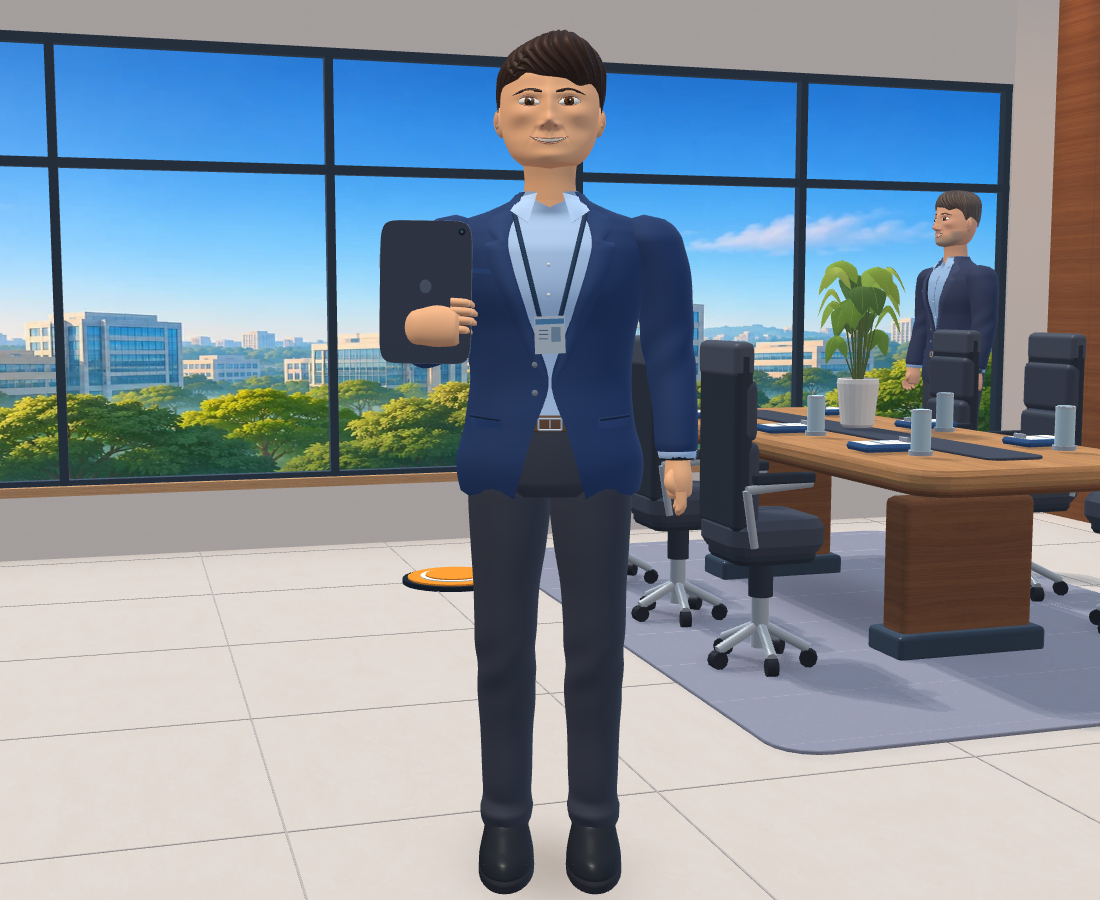
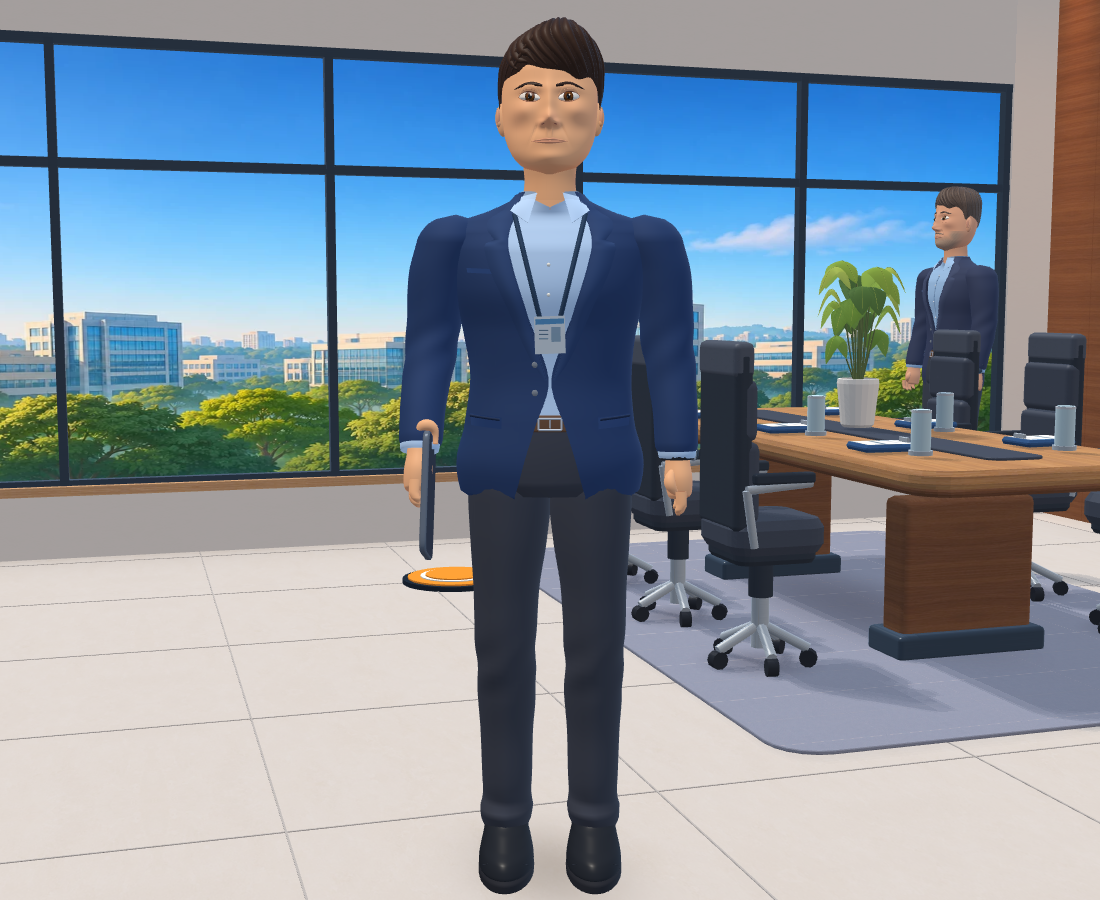
Restaura proporcoes faciais, expressao neutra e porte lateral do tablet

diff --git a/assets/personagens.js b/assets/personagens.js
@@ -14,6 +14,8 @@
   const bones=['body','head','jaw','mouth','lip','teeth','thighL','shinL','footL','thighR','shinR','footR','armL','foreL','handL','armR','foreR','handR','tablet','eyelidL','eyelidR'];
   const boneIndex=Object.fromEntries(bones.map((name,index)=>[name,index]));
   const smooth=(a,b,x)=>{const t=clamp((x-a)/(b-a));return t*t*(3-2*t);};
+  const headHeight=(y,role)=>2.84+(y-2.84)*(role==='manager'?1.08:1.04);
+  const mouthHeight=2.724;
   function weights(name,p,u,v) {
     const y=p[1],side=name.at(-1);
     if(name.startsWith('eyelid'))return[boneIndex.head,boneIndex[name],(1-v)*Math.max(0,sin(Math.PI*u))**.48];
@@ -47,12 +49,13 @@
       if(!this.chunks.has(name))this.chunks.set(name,{vertices:[],indices:[]});
       const chunk=this.chunks.get(name);this.out=chunk.vertices;this.indices=chunk.indices;this.name=name;
     }
-    surface(fn,nu,nv,c,mat,flip=false){
+    surface(fn,nu,nv,c,mat,flip=false,influence){
       const grid=[],ep=.00012;
       for(let j=0;j<=nv;j++)for(let i=0;i<=nu;i++){
         const u=i/nu,v=j/nv,p=fn(u,v),du=sub(fn(clamp(u+ep),v),fn(clamp(u-ep),v)),dv=sub(fn(u,clamp(v+ep)),fn(u,clamp(v-ep)));
         let n=unit(flip?cross(du,dv):cross(dv,du));if(Math.hypot(...n)<.5)n=[0,v>.5?1:-1,0];
-        const color=typeof c==='function'?c(u,v,p):c;grid.push([...p,...n,...color,mat,0,...weights(this.name,p,u,v),u,v]);
+        const color=typeof c==='function'?c(u,v,p):c;
+        grid.push([...p,...n,...color,mat,0,...(influence?influence(p,u,v):weights(this.name,p,u,v)),u,v]);
       }
       const w=nu+1,offset=this.out.length/16;
       for(const vertex of grid)this.out.push(...vertex);
@@ -81,14 +84,12 @@
       let offset=0,indexOffset=0;
       for(const [bone,chunk] of this.chunks){
         const a=chunk.vertices;
-        if(role==='auditor'&&bone==='handR'){
-          for(let i=0;i<a.length;i+=16)a[i]+=.040*(1-smooth(1.565,1.626,a[i+1]));
-        }
         if(['head','mouth','lip','teeth','eyelidL','eyelidR'].includes(bone)){
-          const sx=role==='manager'?.96:.93,sy=role==='manager'?.98:.94,sz=.98;
+          // Match the approved face length and aspect ratio from the original rig.
+          const sx=role==='auditor'?.90:.94,sy=role==='manager'?1.08:1.04;
           for(let i=0;i<a.length;i+=16){
-            a[i]*=sx;a[i+1]=2.63+(a[i+1]-2.63)*sy;a[i+2]*=sz;
-            a[i+3]/=sx;a[i+4]/=sy;a[i+5]/=sz;
+            a[i]*=sx;a[i+1]=headHeight(a[i+1],role);
+            a[i+3]/=sx;a[i+4]/=sy;
           }
         }
         parts.push({bone,first:indexOffset,count:chunk.indices.length});data.set(a,offset);
@@ -104,7 +105,7 @@
     const manager=role==='manager',worker=role==='worker';
     // Asymmetric cranium, wide cheekbones, narrow chin and the brow, eye sockets, muzzle,
     // nose bridge/alae and chin sculpted into the face itself (no separate nose sphere).
-    const rows=[[2.630,.027,.047,-.049],[2.65,.111,.115,-.036],[2.70,.159,.146,-.018],[2.77,.185,.159,-.002],[2.86,.194,.169,.005],[2.96,.187,.164,.010],[3.028,.151,.139,.019],[3.071,.082,.094,.023],[3.086,.004,.006,.025]];
+    const rows=[[2.619,.027,.047,-.049],[2.65,.111,.115,-.036],[2.70,.159,.146,-.018],[2.77,.185,.159,-.002],[2.86,.194,.169,.005],[2.96,.187,.164,.010],[3.028,.151,.139,.019],[3.071,.082,.094,.023],[3.086,.004,.006,.025]];
     function shape(y){const [w,d,z]=sample(rows,y);return[w*(manager?1.065:worker?1.035:1),d,z];}
     const sc=(x,y)=>-.032*gauss(x,y,0,2.837,.024,.076)-.043*gauss(x,y,0,2.796,.029,.024)
       -.020*(gauss(x,y,.029,2.783,.015,.012)+gauss(x,y,-.029,2.783,.015,.012))
@@ -185,25 +186,26 @@
         const x=s*(.001+.071*u),y=arch(2.758,2.746,.003,u)-v*(.005+.004*sin(Math.PI*u));
         return[x,y,faceZ(x,y)-.001-.002*sin(v*Math.PI)];},24,6,(u,v)=>blend(pepper,salt,.25+.11*sin(u*51+v*4)**2),hair,s>0);
     }
-    const lipW=manager?.070:.075,smile=x=>2.727+(manager?.011:.018)*(x/lipW)**2;
+    const lipW=manager?.070:.071,seam=x=>mouthHeight+.001*(x/lipW)**2;
     function lips(part){m.bone(part==='bottom'?'lip':part==='inside'?'mouth':'head');m.surface((u,v)=>{
-      const k=u*2-1,x=k*lipW,r=Math.max(0,1-k*k),base=smile(x);
-      let y;if(part==='inside')y=base+lerp(-.010,.005,v)*r;
-      else if(part==='bottom')y=base-r*(.010+.006*(1-v));
-      else y=base+r*(.005+v*(.005+.003*Math.exp(-((Math.abs(k)-.27)**2)/.033)));
-      const z=faceZ(x,y)-(part==='inside'?.005:.008+(part==='bottom'?.004:.002)*sin(Math.PI*v))*r;
-      return[x,y,z];},32,8,part==='inside'?col('633d36'):blend(P.skin,P.lip,part==='bottom'?.40:.34),skin);}
+      const k=u*2-1,x=k*lipW,r=Math.max(0,1-k*k),base=seam(x);
+      let y;if(part==='inside')y=base+lerp(-.027,.0005,v)*r;
+      else if(part==='bottom')y=base-r*.010*(1-v);
+      else y=base+r*v*(.007+.003*Math.exp(-((Math.abs(k)-.27)**2)/.033));
+      const z=faceZ(x,y)-(part==='inside'?.002:.007+(part==='bottom'?.003:.002)*sin(Math.PI*v))*r;
+      return[x,y,z];},32,8,part==='inside'?col('583637'):blend(P.skin,P.lip,part==='bottom'?.49:.44),skin,false,
+        part==='upper'?()=>[boneIndex.head,boneIndex.head,0]:undefined);}
     lips('upper');lips('inside');lips('bottom');
     m.bone('teeth');m.surface((u,v)=>{
-      const k=u*2-1,x=k*lipW*.89,r=1-k*k,y=smile(x)+lerp(-.007,.004,v)*r;
-      return[x,y,faceZ(x,y)-.007*r-.001];
+      const k=u*2-1,x=k*lipW*.85,r=1-k*k,y=seam(x)+lerp(-.007,-.001,v)*r;
+      return[x,y,faceZ(x,y)-.004*r];
     },48,6,(u,v)=>{
       const edge=Math.abs(sin((u-.5)*Math.PI*8))**24;
       return blend(col('f1e5ce'),col('bca78d'),.13*edge+.10*(1-v));
     },enamel);
     for(const s of [-1,1]){
       m.bone('head');
-      m.tube(t=>{const x=s*(lipW+.004*t),y=smile(s*lipW)+.006*t;return[x,y,faceZ(x,y)-.001];},t=>.0007*(1-t),blend(P.lip,P.skin,.24),skin,9,5);
+      m.tube(t=>{const x=s*(lipW+.003*t),y=seam(s*lipW)-.001*t;return[x,y,faceZ(x,y)-.001];},t=>.0005*(1-t),blend(P.lip,P.skin,.45),skin,9,5);
     }
     m.bone('head');
     // Interpolate the hand-cut hairline around temples and ears. A crescent of
@@ -413,7 +415,13 @@
         m.ell(s*(xx+.010),y+.024,z-.052,.0025,.011,.009,blend(P.skin,col('f2d6bb'),.48),enamel,12,8);
         m.tube(t=>[s*(xx+.014),y+.050+.0015*sin(t*Math.PI),z-.065+.018*t],.0006,blend(P.lip,P.skin,.62),skin,7,4);
       }
-      m.tube(t=>[s*(.432-.018*sin(Math.PI*t)+.014*t),1.535-.080*t,-.109-.025*sin(Math.PI*t*.9)],t=>.005+.016*sin(Math.PI*(.12+.79*t)),skinC,skin,20,14);
+      if(role==='auditor'&&s>0){
+        // Wrap the thumb over the top edge instead of through the folio's panel.
+        m.tube(t=>[.426+.031*cos(Math.PI*t),1.60+.064*Math.max(0,sin(Math.PI*t))**.45,-.110-.020*sin(Math.PI*t)],
+          t=>.005+.016*sin(Math.PI*(.12+.79*t)),skinC,skin,24,14);
+      }else{
+        m.tube(t=>[s*(.432-.018*sin(Math.PI*t)+.014*t),1.535-.080*t,-.109-.025*sin(Math.PI*t*.9)],t=>.005+.016*sin(Math.PI*(.12+.79*t)),skinC,skin,20,14);
+      }
       if(!worker&&s<0){
         m.bone('fore'+side);
         loft([[1.576,.062,.069,.456,-.058],[1.59,.064,.07,.456,-.058],[1.607,.064,.07,.455,-.056]],P.leather,leather,18,5);
@@ -422,14 +430,17 @@
       }
       if(role==='auditor'&&s>0){
         m.bone('tablet');
-        const tx=.409,ty=1.715,tz=-.090;
-        const point=(a,r,z)=>[tx+r*.154*Math.sign(sin(a))*Math.abs(sin(a))**.23,ty+r*.239*Math.sign(cos(a))*Math.abs(cos(a))**.23,z];
-        m.surface((u,v)=>point(u*TAU,.992+.008*sin(v*Math.PI),tz+lerp(-.012,.012,v)),80,8,col('727c89'),metal);
-        for(const side of [-1,1])m.surface((u,v)=>point(u*TAU,.0001+v*.992,tz+side*.012),80,8,side<0?col('343b48'):col('202b3b'),leather,side>0);
-        m.ell(tx-.119,ty+.202,tz-.013,.012,.012,.0018,col('19212c'),metal,18,10);
-        m.ell(tx-.119,ty+.202,tz-.015,.005,.005,.001,col('41627c'),enamel,14,8);
-        m.ell(tx,ty+.018,tz-.013,.020,.023,.0006,col('4d5766'),metal,18,10);
-        m.tube(t=>[tx+.155,ty+.08+.045*t,tz],.002,col('9ca5b0'),metal,6,6);
+        // Original slim folio, carried vertically beside the thigh in the palm.
+        const tx=.420,ty=1.418,tz=-.065;
+        const shapes=[[0,.962],[.10,.989],[.24,1],[.76,1],[.91,.988],[1,.963]];
+        const point=(a,r,x)=>{
+          const yy=sin(a),zz=cos(a);
+          return[x,ty+r*.218*Math.sign(yy)*Math.abs(yy)**.22,tz+r*.144*Math.sign(zz)*Math.abs(zz)**.22];
+        };
+        m.surface((u,v)=>point(u*TAU,sample(shapes,v)[0],tx+lerp(-.012,.012,v)),48,6,col('586372'),metal);
+        for(const side of [-1,1])m.surface((u,v)=>point(u*TAU,.0001+v*.966,tx+side*.012),48,4,side>0?col('3b4656'):col('354054'),leather,side<0);
+        m.ell(tx+.013,ty+.180,tz+.098,.004,.013,.013,col('202736'),metal,12,8);
+        for(let i=0;i<3;i++)m.ell(tx+.013,ty-.055+.005*i,tz-.032+.010*i,.0018,.010+.006*i,.003,col('8195a8'),metal,8,5);
       }
     }
   }
@@ -477,10 +488,12 @@
     rig.body=joint(multiply(root,transform(0,.003*breath,0)),[0,1.66,0],0,-sin(phase)*.055*w,cos(phase)*.013*w);
     rig.head=joint(rig.body,[0,2.58,0],-.013*breath+.018*sin(t*5)*answer,.029*sin(t*.66)+.033*sin(t*2.5)*answer,.006*sin(t*.94));
     const vis=answer*(.4+.33*sin(t*19)+.20*sin(t*29+1)+.07*sin(t*42)),op=Math.max(0,vis);
-    rig.jaw=joint(rig.head,[0,2.785,.028],-.088*op);
-    const open=identity();open[5]=1+1.65*op;open[13]=2.741*(1-open[5]);
+    rig.jaw=joint(rig.head,[0,headHeight(2.785,role),.028],-.088*op);
+    const reveal=smooth(.025,.18,op),level=headHeight(mouthHeight,role);
+    const open=identity();open[5]=Math.max(.005,op);open[13]=level*(1-open[5]);open[14]=.010*(1-reveal);
     rig.mouth=multiply(rig.head,open);rig.lip=multiply(rig.jaw,transform(0,-.003*op,0));
-    rig.teeth = rig.head;
+    const teeth=identity();teeth[5]=.005+.995*reveal;teeth[13]=level*(1-teeth[5]);teeth[14]=.009*(1-reveal);
+    rig.teeth=multiply(rig.head,teeth);
     for(const side of ['L','R']){
       const blinkTime=(t+1.8+(side==='R'?.012:0))%5.3;
       const blink=smooth(0,.075,blinkTime)*(1-smooth(.075,.205,blinkTime));
@@ -544,17 +557,10 @@
       }
       const gesture=answer*(.50+.50*sin(t*2.4+s*.8));
       const carry=role==='auditor'&&s===1;
-      rig['arm'+side]=joint(rig.body,[s*.356,2.411,.016],(carry?.055:-.017)-w*swing*(carry?.08:.39)+.07*gesture,.007*breath,-s*(.015+.019*gesture));
-      rig['fore'+side]=joint(rig['arm'+side],[s*.429,2.011,.005],(carry?1.48:.08)+w*(carry?.025:.12+.10*Math.max(0,-swing))+.35*gesture+s*.018*breath);
-      const wrist=[s*.456,1.595,-.055];
+      rig['arm'+side]=joint(rig.body,[s*.356,2.411,.016],-.017-w*swing*(carry?.19:.39)+.07*gesture,.007*breath,-s*(.015+.019*gesture));
+      rig['fore'+side]=joint(rig['arm'+side],[s*.429,2.011,.005],(carry?.30:.08)+w*(.12+.10*Math.max(0,-swing))+.35*gesture+s*.018*breath);
       rig['hand'+side]=rig['fore'+side];
-      if(carry){
-        const aligned=joint(rig['fore'+side],wrist,-1.48);
-        const grip=new Float32Array([0,0,-1,0,1,0,0,0,0,-1,0,0,0,0,0,1]);
-        for(let i=0;i<3;i++)grip[12+i]=wrist[i]-(grip[i]*wrist[0]+grip[i+4]*wrist[1]+grip[i+8]*wrist[2]);
-        rig['hand'+side]=multiply(aligned,grip);
-        rig.tablet=aligned;
-      }
+      if(carry)rig.tablet=rig['hand'+side];
     }
     return rig;
   }

diff --git a/fases/fase01.html b/fases/fase01.html
@@ -5,7 +5,7 @@
   <meta name="viewport" content="width=device-width, initial-scale=1, maximum-scale=1, viewport-fit=cover"/>
   <meta name="theme-color" content="#102c46"/>
   <title>SCAI • Fase 01: Auditoria de Estoques</title>
-  <link rel="stylesheet" href="fase01.css?v=elenco-realista-1"/>
+  <link rel="stylesheet" href="fase01.css?v=elenco-realista-2"/>
 </head>
 <body>
   <main id="game" aria-label="Jogo tridimensional Simulador de Auditoria">
@@ -38,16 +38,16 @@
     <div id="modal" class="modalBackdrop" hidden><div class="modalCard" role="dialog" aria-modal="true" aria-labelledby="modalTitle"><button id="modalClose" class="close" aria-label="Fechar janela">×</button><div id="modalBody"></div></div></div>
     <div id="fallback" hidden>Seu navegador não conseguiu iniciar o WebGL. Tente atualizar o navegador ou ativar aceleração gráfica.</div>
   </main>
-  <script src="../assets/materiais.js?v=elenco-realista-1"></script>
-  <script src="../assets/elenco-materiais.js?v=elenco-realista-1"></script>
-  <script src="../assets/horizonte.js?v=elenco-realista-1"></script>
-  <script src="../assets/graficos.js?v=elenco-realista-1"></script>
-  <script src="../assets/malha.js?v=elenco-realista-1"></script>
-  <script src="../assets/iluminacao.js?v=elenco-realista-1"></script>
-  <script src="../assets/cenario.js?v=elenco-realista-1"></script>
-  <script src="../assets/personagens.js?v=elenco-realista-1"></script>
-  <script src="../assets/renderizador.js?v=elenco-realista-1"></script>
-  <script src="../engine3d.js?v=elenco-realista-1"></script>
-  <script src="fase01.js?v=elenco-realista-1"></script>
+  <script src="../assets/materiais.js?v=elenco-realista-2"></script>
+  <script src="../assets/elenco-materiais.js?v=elenco-realista-2"></script>
+  <script src="../assets/horizonte.js?v=elenco-realista-2"></script>
+  <script src="../assets/graficos.js?v=elenco-realista-2"></script>
+  <script src="../assets/malha.js?v=elenco-realista-2"></script>
+  <script src="../assets/iluminacao.js?v=elenco-realista-2"></script>
+  <script src="../assets/cenario.js?v=elenco-realista-2"></script>
+  <script src="../assets/personagens.js?v=elenco-realista-2"></script>
+  <script src="../assets/renderizador.js?v=elenco-realista-2"></script>
+  <script src="../engine3d.js?v=elenco-realista-2"></script>
+  <script src="fase01.js?v=elenco-realista-2"></script>
 </body>
 </html>

diff --git a/SCAI.html b/SCAI.html
@@ -1,6 +1,6 @@
 <!doctype html>
 <html lang="pt-BR">
-<head><meta charset="utf-8"/><meta name="viewport" content="width=device-width,initial-scale=1"/><meta name="theme-color" content="#112d45"/><title>SCAI | Simulador de Cenários em Auditoria Independente</title><link rel="stylesheet" href="SCAI.css?v=elenco-realista-1"/></head>
+<head><meta charset="utf-8"/><meta name="viewport" content="width=device-width,initial-scale=1"/><meta name="theme-color" content="#112d45"/><title>SCAI | Simulador de Cenários em Auditoria Independente</title><link rel="stylesheet" href="SCAI.css?v=elenco-realista-2"/></head>
 <body>
 <div id="menu">
   <header class="nav"><a class="brand" href="SCAI.html"><span class="mark" aria-hidden="true"></span><span><b>SCAI</b><small>SIMULADOR DE AUDITORIA INDEPENDENTE</small></span></a><div class="navRight"><span class="edition">VERSÃO ALFA 0.1</span><a href="#sobre" class="menuLink">Sobre o projeto</a><button class="topPlay" id="topPlay">Jogar missão ↗</button></div></header>
@@ -13,5 +13,5 @@
   <footer><span><b>SCAI</b> • Simulador de Cenários em Auditoria Independente</span><span>Protótipo educacional • Dados e empresas fictícios • Não substitui julgamento profissional.</span></footer>
 </div>
 <div id="player" hidden><div class="gameHeader"><b>SCAI / Fase Alpha 01</b><button id="closeGame" title="Voltar ao menu" aria-label="Voltar ao menu">⌂</button></div><iframe id="phaseFrame" title="Fase 01 — Auditoria de Estoques" allow="fullscreen"></iframe></div>
-<script src="SCAI.js?v=elenco-realista-1"></script>
+<script src="SCAI.js?v=elenco-realista-2"></script>
 </body></html>

diff --git a/SCAI.js b/SCAI.js
@@ -1,7 +1,7 @@
 /* SCAI centraliza a seleção e inicialização das fases; cada fase é um HTML independente. */
 (() => {
   'use strict';
-  const phaseCatalog=[{id:'alpha01',name:'Auditoria de estoques',file:'fases/fase01.html?v=elenco-realista-1',enabled:true}];
+  const phaseCatalog=[{id:'alpha01',name:'Auditoria de estoques',file:'fases/fase01.html?v=elenco-realista-2',enabled:true}];
   const menu=document.getElementById('menu'),player=document.getElementById('player'),frame=document.getElementById('phaseFrame');
   const start=(id='alpha01')=>{const phase=phaseCatalog.find(p=>p.id===id&&p.enabled);if(!phase)return;menu.hidden=true;player.hidden=false;document.body.style.overflow='hidden';frame.src=phase.file;frame.focus();};
   const exit=()=>{frame.src='about:blank';player.hidden=true;menu.hidden=false;document.body.style.overflow='';updateLast();};

diff --git a/docs/personagens-realistas.md b/docs/personagens-realistas.md
@@ -6,11 +6,11 @@ Implementação em `codex/teste-nova-implementacao`, baseada na referência de a
 
 ## O que mudou
 
-- Rosto com proporções revistas, ponte e asas do nariz esculpidas, maçãs do rosto, olhos amendoados, íris texturizada, lábios, dentes e sorriso.
+- Rosto com o comprimento e a proporção da versão anterior ao experimento, mantendo ponte e asas do nariz esculpidas, maçãs do rosto, olhos amendoados e íris texturizada. A expressão de repouso é neutra, com lábios fechados; os dentes são revelados somente durante a fala.
 - Cabelo com volume penteado, relevo de mechas e microtextura. Marcos conserva os fios grisalhos e a barba aparada; o operador conserva o capacete e o colete.
 - Paletó e calças com superfícies contínuas nas articulações, pregas discretas, lapelas com dobra, bolsos, costuras e colarinho ajustado. Sapatos com acabamento de couro e cadarços; cinto com fivela retangular.
-- Mãos com dedos, unhas e polegar; o auditor segura o tablet junto ao corpo com a mão e o objeto ligados ao mesmo antebraço.
-- Deformação por dois ossos nos cotovelos, joelhos, quadril e pescoço. Mandíbula e lábio acompanham a fala; as pálpebras piscam durante a animação de repouso.
+- Mãos com dedos, unhas e polegar; o auditor voltou a carregar o tablet fino na pose original, verticalmente ao lado da coxa, com a mão e o objeto ligados ao mesmo antebraço. O polegar contorna a borda superior.
+- Deformação por dois ossos nos cotovelos, joelhos, quadril e pescoço. Mandíbula e lábio acompanham a fala e voltam à boca fechada quando ela termina; as pálpebras piscam durante a animação de repouso.
 - Iluminação própria dos personagens em espaço linear, com resposta diferente para pele, cabelo, tecido, couro, metal e olhos. O cenário mantém a iluminação existente.
 
 ![Elenco renderizado para inspeção dos modelos](previa-elenco.png)
@@ -27,7 +27,7 @@ Foi usado o modo integrado da habilidade `imagegen`. A imagem gerada foi codific
 
 ## Validação
 
-`node --test tests/personagens.test.cjs` verifica nove casos: integridade das malhas e influências do esqueleto para cada personagem, poses finitas ao girar/caminhar/falar, apoio do pé durante o avanço, solas acima do chão e altura da postura/ancoragem do tablet. Os modelos usam índices de 16 bits no WebGL 1 e um desenho por personagem.
+`node --test tests/personagens.test.cjs` verifica 16 casos: integridade das malhas e influências do esqueleto para cada personagem, poses finitas ao girar/caminhar/falar, comprimento preservado do rosto, boca fechada em repouso e animada na fala, apoio do pé durante o avanço, solas acima do chão, altura da postura, ancoragem do tablet e sua posição abaixo da cintura. Os modelos usam índices de 16 bits no WebGL 1 e um desenho por personagem.
 
 A fase foi aberta diretamente e pelo menu no Edge com WebGL real. A missão foi percorrida até o resultado aprovado, incluindo entrevista a 30 caracteres por segundo, feedback instantâneo, execução de testes fora do plano e cinco mudanças de plano sem criar créditos. Os três personagens foram conferidos de frente, de perfil e por trás; caminhada, fala e piscada foram renderizadas sem erro de WebGL. O layout móvel foi conferido com emulação, com fonte de 16 px e faixa de diálogo de 25% da altura.
 

diff --git a/MEMORIA-DO-PROJETO.md b/MEMORIA-DO-PROJETO.md
@@ -81,3 +81,4 @@ A estrutura esperada existe (`SCAI.html`, estilos/scripts centrais, `engine3d.js
 - A interface da fase e a barra do jogador bloqueiam seleção de texto, arraste e menu de copiar por toque prolongado, incluindo setas, giro e missão. Os controles rastreiam cada dedo e liberam os comandos ao soltar, cancelar, perder a captura ou sair do jogo; a câmera também encerra o arraste cancelado. Campos de formulário e rolagem dos painéis foram preservados. Toque contínuo, movimento e giro simultâneos, cancelamento e rolagem foram conferidos no Edge com emulação de celular e tablet; ainda sem teste em aparelho físico.
 - Em 2026-11-16, o autor pediu isolamento da nova implementação: criada e publicada no GitHub a ramificação `codex/teste-nova-implementacao`, a partir de `004af41` (`Versão Alfa 0.1`). A `main` deve continuar sem receber este experimento até uma decisão explícita de integração.
 - Experimento de personagens nessa ramificação: anatomia facial refinada, íris texturizada, sorriso/dentes, cabelo com relevo, colarinho e lapelas reconstruídos, mãos detalhadas e tablet empunhado junto ao corpo. Mangas e pernas usam superfícies contínuas com mistura de dois ossos por vértice; a GPU recebe o rig completo em um único desenho por personagem. Mandíbula, lábio e pálpebras animam; a caminhada preserva apoio dos pés e altura da postura. Um atlas de oito materiais do elenco foi criado com ImageGen e incorporado para abertura offline. A fase completa passou até o relatório aprovado; nove testes de malha/rig/apoio/ancoragem passaram. Capturas reais e prompt estão em `docs/personagens-realistas.md`. A aparência é uma interpretação estilizada da referência, a ser avaliada nesta ramificação.
+- Revisão desse experimento por orientação do autor: recuperar o comprimento do rosto anterior, eliminar o sorriso com dentes à mostra como expressão permanente e restaurar a forma anterior de carregar o tablet. A escala vertical voltou a 1,04 (auditor e operador) e 1,08 (Marcos), centrada na altura original; a expressão de repouso passou a lábios fechados, com abertura e dentes apenas durante a fala. O tablet fino e a pose do braço/antebraço foram restaurados para a lateral da coxa; mão e objeto compartilham a transformação, e o polegar contorna a borda para evitar atravessar o painel. Preservados os materiais e detalhes novos. Os testes passaram a cobrir também altura facial, repouso/fala e posição lateral do tablet (16 casos).
